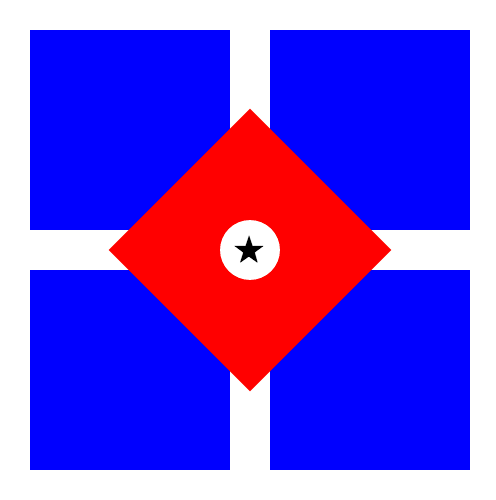
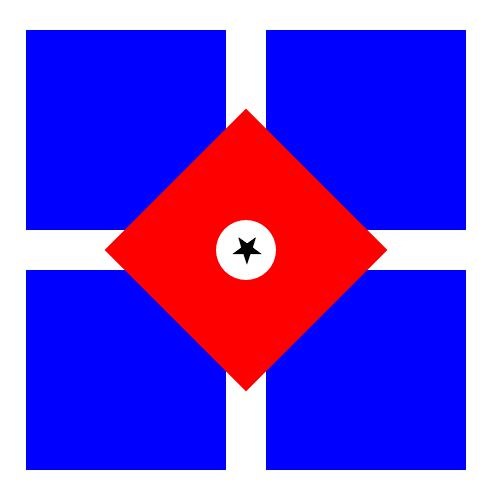
solved 3-6

diff --git a/01_Core/week03/submissions/exercise6/style.css b/01_Core/week03/submissions/exercise6/style.css
@@ -1,0 +1,63 @@
+.container {
+    display: grid;
+    grid-template-columns: repeat(16,6.25%);
+    grid-template-rows: repeat(6,16.66%);
+    width: 400px;
+    height: 280px;
+}
+
+.div1 {
+    width: 100px;
+    height: 100px;
+    background-color: red;
+    grid-column: 4/6;
+    grid-row: 1/2;
+    border: solid white 5px;
+    z-index: 1;
+}
+
+.div2 {
+    width: 100px;
+    height: 100px;
+    background-color: rgb(255, 153, 33);
+    grid-column: 10/12;
+    grid-row: 1/2;
+    border: solid white 5px;
+    z-index: 1;
+    transform: rotate(340deg);
+}
+
+.div3 {
+    width: 100px;
+    height: 100px;
+    background-color: rgb(255, 251, 46);
+    grid-column: 8/10;
+    grid-row: 3/4;
+    border: solid white 5px;
+    z-index: 2;
+    transform: rotate(325deg);
+}
+
+.div4 {
+    width: 100px;
+    height: 100px;
+    background-color: rgb(0, 45, 250);
+    grid-column: 5/7;
+    grid-row: 2/3;
+    border: solid white 5px;
+    z-index: 3;
+    transform: rotate(25deg);
+
+}
+
+.div5 {
+    width: 100px;
+    height: 100px;
+    background-color: rgb(239, 121, 235);
+    grid-column: 2/4;
+    grid-row: 2/3;
+    border: solid white 5px;
+    z-index: 4;
+    transform: rotate(15deg);
+
+}

diff --git a/01_Core/week03/submissions/exercise5/style.css b/01_Core/week03/submissions/exercise5/style.css
@@ -1,0 +1,57 @@
+.container {
+    display: grid;
+    grid-template-columns: repeat(6,16.66%);
+    grid-template-rows: repeat(3,33.33%);
+    width: 340px;
+    height: 170px;
+}
+
+.div1 {
+    width: 100px;
+    height: 100px;
+    background-color: red;
+    grid-column: 1/2;
+    grid-row: 1/2;
+    border: solid white 5px;
+    z-index: 1;
+}
+
+.div2 {
+    width: 100px;
+    height: 100px;
+    background-color: rgb(255, 153, 33);
+    grid-column: 3/4;
+    grid-row: 1/2;
+    border: solid white 5px;
+    z-index: 1;
+}
+
+.div3 {
+    width: 100px;
+    height: 100px;
+    background-color: rgb(255, 251, 46);
+    grid-column: 5/6;
+    grid-row: 1/2;
+    border: solid white 5px;
+    z-index: 1;
+}
+
+.div4 {
+    width: 100px;
+    height: 100px;
+    background-color: rgb(0, 45, 250);
+    grid-column: 2/3;
+    grid-row: 2/3;
+    border: solid white 5px;
+    z-index: 2;
+}
+
+.div5 {
+    width: 100px;
+    height: 100px;
+    background-color: rgb(239, 121, 235);
+    grid-column: 4/5;
+    grid-row: 2/3;
+    border: solid white 5px;
+    z-index: 2;
+}

diff --git a/01_Core/week03/submissions/exercise7/style.css b/01_Core/week03/submissions/exercise7/style.css
@@ -1,0 +1,57 @@
+.container {
+    display: grid;
+    grid-template-columns: repeat(3,33.33%);
+    grid-template-rows: repeat(5,20%);
+    width: 170px;
+    height: 280px;
+}
+
+.div1 {
+    width: 170px;
+    height: 50px;
+    background-color: red;
+    grid-column: 1/3;
+    grid-row: 1/2;
+    border: solid white 5px;
+    z-index: 1;
+}
+
+.div2 {
+    width: 170px;
+    height: 50px;
+    background-color: rgb(255, 153, 33);
+    grid-column: 1/3;
+    grid-row: 2/3;
+    border: solid white 5px;
+    z-index: 1;
+}
+
+.div3 {
+    width: 170px;
+    height: 50px;
+    background-color: rgb(255, 251, 46);
+    grid-column: 1/3;
+    grid-row: 3/4;
+    border: solid white 5px;
+    z-index: 1;
+}
+
+.div4 {
+    width: 170px;
+    height: 50px;
+    background-color: rgb(0, 45, 250);
+    grid-column: 1/3;
+    grid-row: 4/5;
+    border: solid white 5px;
+    z-index: 2;
+}
+
+.div5 {
+    width: 170px;
+    height: 50px;
+    background-color: rgb(239, 121, 235);
+    grid-column: 1/3;
+    grid-row: 5/6;
+    border: solid white 5px;
+    z-index: 2;
+}

diff --git a/01_Core/week03/submissions/exercise4/style.css b/01_Core/week03/submissions/exercise4/style.css
@@ -1,0 +1,56 @@
+.container {
+    display: grid;
+    grid-template-columns: repeat(6,16.66%);
+    grid-template-rows: repeat(6,16.66%);
+    width: 320px;
+    height: 320px;
+}
+
+.div1 {
+    width: 100px;
+    height: 100px;
+    background-color: red;
+    grid-column: 1/2;
+    grid-row: 1/2;
+    border: solid white 5px;
+}
+
+.div2 {
+    width: 100px;
+    height: 100px;
+    background-color: rgb(255, 153, 33);
+    grid-column: 2/3;
+    grid-row: 2/3;
+    border: solid white 5px;
+    z-index: 2;
+}
+
+.div3 {
+    width: 100px;
+    height: 100px;
+    background-color: rgb(255, 251, 46);
+    grid-column: 3/4;
+    grid-row: 3/4;
+    border: solid white 5px;
+    z-index: 3;
+}
+
+.div4 {
+    width: 100px;
+    height: 100px;
+    background-color: rgb(0, 45, 250);
+    grid-column: 4/5;
+    grid-row: 4/5;
+    border: solid white 5px;
+    z-index: 4;
+}
+
+.div5 {
+    width: 100px;
+    height: 100px;
+    background-color: rgb(239, 121, 235);
+    grid-column: 5/6;
+    grid-row: 5/6;
+    border: solid white 5px;
+    z-index: 5;
+}

diff --git a/01_Core/week03/submissions/exercise4/index.html b/01_Core/week03/submissions/exercise4/index.html
@@ -7,6 +7,8 @@
   <title>CSS Exercise 4</title>
   <meta name="description" content="ITA CSS Layout Exercise">
   <meta name="author" content="Mark Kroh">
+  <link rel="stylesheet" href="style.css">
+
 
   <style>
   	

diff --git a/01_Core/week03/submissions/exercise6/index.html b/01_Core/week03/submissions/exercise6/index.html
@@ -7,6 +7,8 @@
   <title>CSS Exercise 6</title>
   <meta name="description" content="ITA CSS Layout Exercise">
   <meta name="author" content="Mark Kroh">
+  <link rel="stylesheet" href="style.css">
+
 
   <style>
   	

diff --git a/01_Core/week03/submissions/exercise7/index.html b/01_Core/week03/submissions/exercise7/index.html
@@ -7,6 +7,8 @@
   <title>CSS Exercise 7</title>
   <meta name="description" content="ITA CSS Layout Exercise">
   <meta name="author" content="Mark Kroh">
+  <link rel="stylesheet" href="style.css">
+
 
   <style>
   	

diff --git a/01_Core/week03/submissions/exercise5/index.html b/01_Core/week03/submissions/exercise5/index.html
@@ -7,6 +7,7 @@
   <title>CSS Exercise 5</title>
   <meta name="description" content="ITA CSS Layout Exercise">
   <meta name="author" content="Mark Kroh">
+  <link rel="stylesheet" href="style.css">
 
   <style>
   	

diff --git a/01_Core/week02/submissions/action.js b/01_Core/week02/submissions/action.js
@@ -9,8 +9,7 @@ addMember = () => {
 
     memberNames.push(fullName);
 
-    let sorted = memberNames.sort(compare);
-    console.log(sorted);
+    memberNames.sort(compare);
 
     deleteLi();
     displayli();

diff --git a/01_Core/week03/submissions/exercise3/style.css b/01_Core/week03/submissions/exercise3/style.css
@@ -21,4 +21,5 @@
     left: 60px;
     z-index: 3;
     transform: rotate(45deg);
+    shape-outside: circle();
 }

diff --git a/01_Core/week02/submissions/styles.css b/01_Core/week02/submissions/styles.css
@@ -175,7 +175,6 @@ width: 400px;
 
 #all-members {
 	list-style-type: none;
-
 }
 
 .lname {
